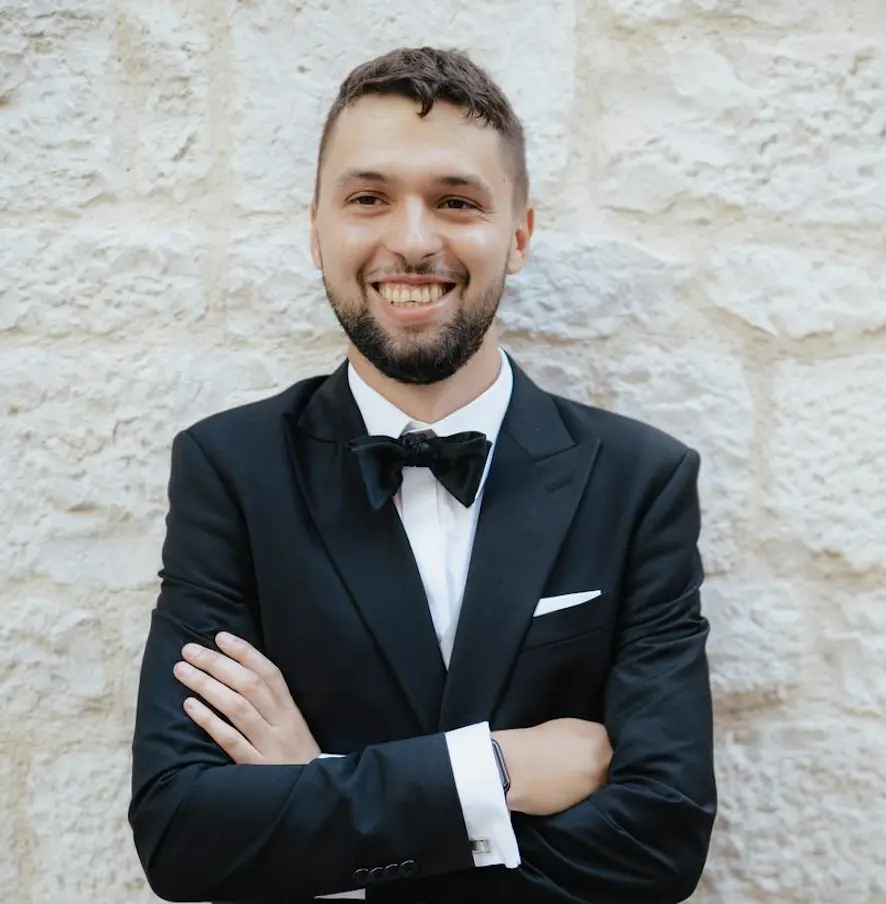
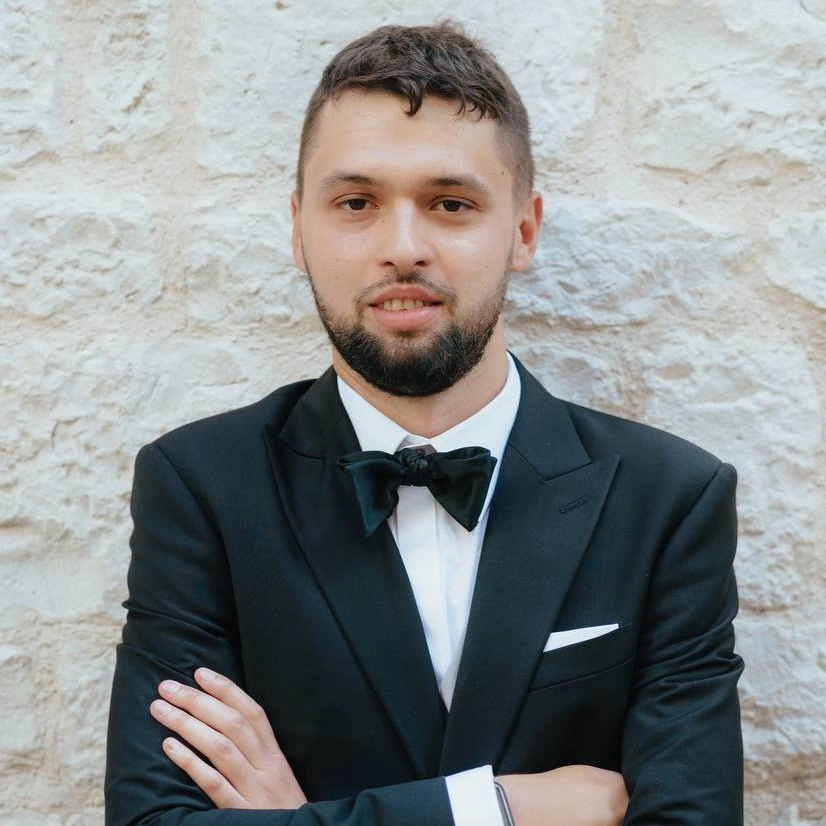
image optimatization

diff --git a/src/components/bio.tsx b/src/components/bio.tsx
@@ -32,7 +32,7 @@ export const Bio = () => {
 
           <Image
             data-testid="bio-image"
-            src="/patryk-3.jpeg"
+            src="/patryk.webp"
             alt="That's me"
             fetchPriority="low"
             loading="lazy"
